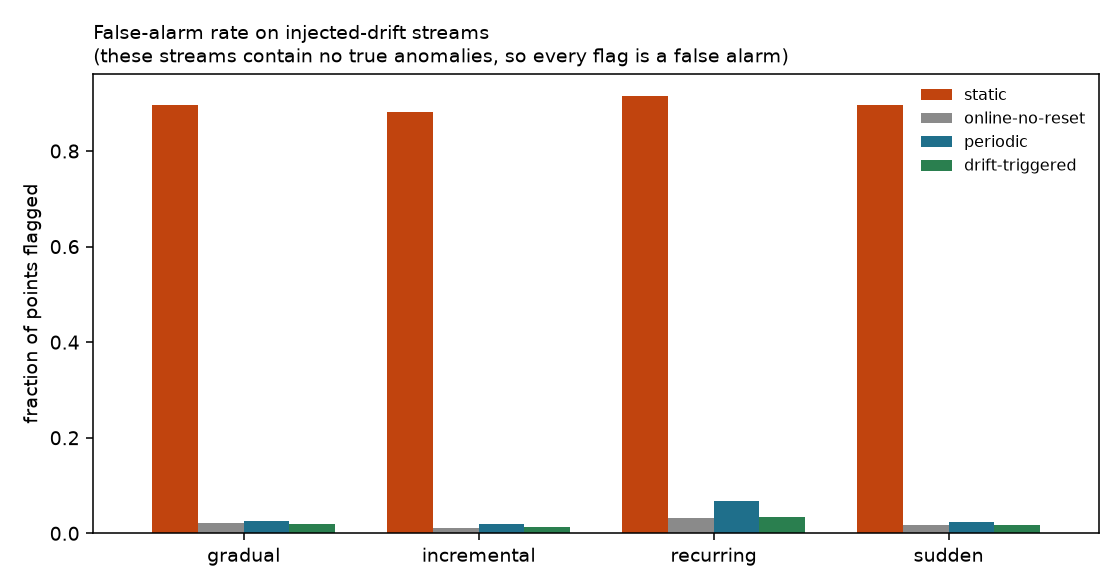
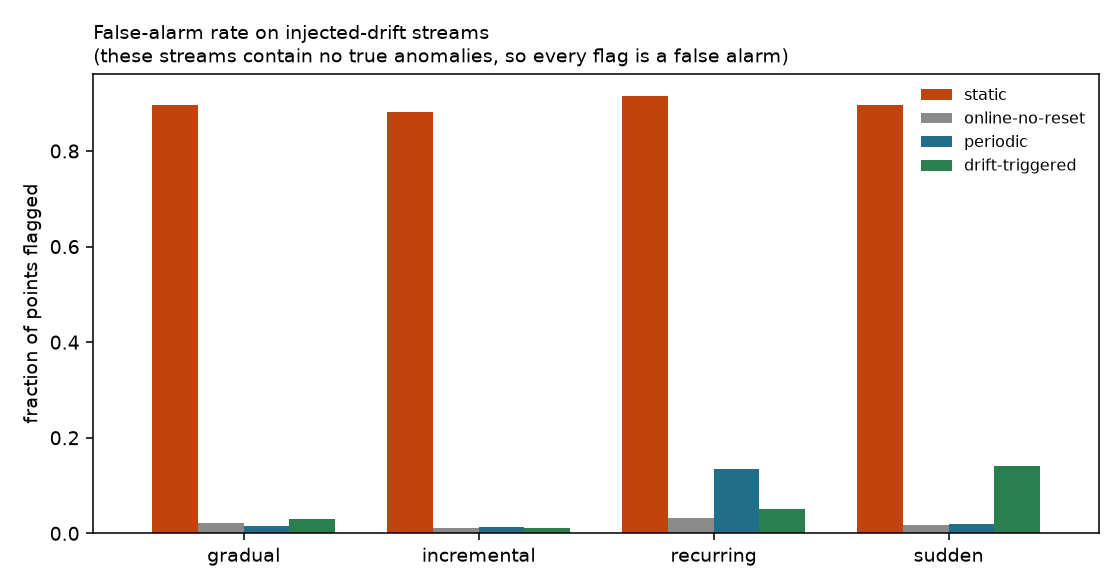
Fix two design flaws found by running the comparison
The retraining strategies were also calling learn_one on every row, which
made periodic and drift-triggered numerically identical to the
online-no-reset control on the labelled stream: continuous learning had
already absorbed the shift, so a rebuild changed nothing. Only the
control learns between rebuilds now.

The drift monitor was watching the model's own anomaly score, which fails
for the same reason. A learning model accommodates the shift, its score
distribution never moves, and the detector never fires; on the labelled
stream it produced zero detections across the whole run. The monitor now
watches mean absolute z-score of the inputs against the window the model
was last built on, refreshed on adaptation, so it answers whether the
world has moved since this model was built.

Drift-triggered now adapts 9 times on the labelled stream where it
previously adapted none, and is measurably distinct from the control.

diff --git a/src/experiment.py b/src/experiment.py
@@ -27,6 +27,28 @@ Rebuilding always means the same operation: `warm_up` on the most recent
 `warmup_size` rows, which regenerates the model, its feature limits, and its
 threshold together.
 
+## Two things the first run got wrong
+
+Both were found by running the code, and both changed the design.
+
+**The retraining strategies hold the model frozen between rebuilds.** In the
+first version every HST strategy also called `learn_one` on every row. That made
+`periodic` and `drift-triggered` numerically identical to `online-no-reset` on
+the labelled stream: continuous learning had already absorbed everything, so the
+rebuild had nothing left to do. A "retrain on a schedule" policy that is also
+learning continuously is not really a retraining policy. Now only
+`online-no-reset` learns between rebuilds, which is what makes it the control.
+
+**The drift monitor watches the input, not the model's anomaly score.** Watching
+the score was the original plan and it is self-defeating for exactly the same
+reason: a continuously-learning model quietly accommodates the shift, its score
+distribution never moves, and the detector never fires. On the labelled stream
+that produced zero detections. The monitor now watches a fixed-reference
+statistic of the inputs — mean absolute z-score across sensors, standardised
+against the window the model was last built on. That reference is refreshed on
+adaptation, so it always answers "has the world moved since this model was
+built", which is the question that should trigger a rebuild.
+
 ## Two stream families, measuring different things
 
 The injected-drift streams are built on SKAB's anomaly-free recording, so they
@@ -57,6 +79,34 @@ from src.evaluate import anomaly_metrics, drift_metrics, summarise
 from src.models import DEFAULT_THRESHOLD_QUANTILE, build_model
 
 
+class ReferenceStatistic:
+    """A one-number summary of how far the input has moved from a reference window.
+
+    Standardises each sensor against the mean and standard deviation of the
+    window the current model was built on, then averages the absolute z-scores.
+    Sitting at roughly 0.8 for data resembling the reference and climbing as the
+    input moves away, it gives the drift detector a signal that does not quietly
+    adapt on its own — which is the whole point of monitoring it instead of the
+    model's anomaly score.
+    """
+
+    def __init__(self) -> None:
+        self._mean: np.ndarray | None = None
+        self._scale: np.ndarray | None = None
+
+    def refit(self, frame: pd.DataFrame) -> None:
+        self._mean = frame.to_numpy().mean(axis=0)
+        scale = frame.to_numpy().std(axis=0)
+        # A sensor that never moved in the reference window would divide by zero;
+        # give it unit scale so it contributes its raw deviation instead.
+        self._scale = np.where(scale > 0, scale, 1.0)
+
+    def value(self, row: np.ndarray) -> float:
+        if self._mean is None or self._scale is None:
+            raise RuntimeError("refit must be called before value")
+        return float(np.mean(np.abs((row - self._mean) / self._scale)))
+
+
 @dataclass(frozen=True)
 class Strategy:
     """One adaptation policy."""
@@ -67,6 +117,10 @@ class Strategy:
     retrain_every: int = 1000
     detector_kind: str = "adwin"
     detector_kwargs: dict = field(default_factory=dict)
+    # Whether the model keeps learning between rebuilds. Only the online control
+    # does; a retraining policy that also learns continuously is not really a
+    # retraining policy, and measurably collapses into the control.
+    learn_online: bool = False
 
     def __post_init__(self) -> None:
         if self.adapt not in ("never", "periodic", "drift"):
@@ -76,7 +130,7 @@ class Strategy:
 def default_strategies(detector_kind: str = "adwin") -> list[Strategy]:
     return [
         Strategy("static", model_kind="iforest", adapt="never"),
-        Strategy("online-no-reset", model_kind="hst", adapt="never"),
+        Strategy("online-no-reset", model_kind="hst", adapt="never", learn_online=True),
         Strategy("periodic", model_kind="hst", adapt="periodic", retrain_every=1000),
         Strategy("drift-triggered", model_kind="hst", adapt="drift", detector_kind=detector_kind),
     ]
@@ -150,8 +204,11 @@ def run_strategy(
             **strategy.detector_kwargs,
         )
 
+    reference = ReferenceStatistic()
+
     started = time.perf_counter()
     model.warm_up(frame.iloc[:warmup])
+    reference.refit(frame.iloc[:warmup])
 
     scores = np.full(n, np.nan)
     flags = np.zeros(n, dtype=int)
@@ -179,6 +236,7 @@ def run_strategy(
         )
 
     records = frame.to_dict(orient="records")
+    values = frame.to_numpy()
     recent: deque[dict] = deque(records[:warmup], maxlen=warmup)
 
     for i in range(warmup, n):
@@ -189,7 +247,8 @@ def run_strategy(
         thresholds[i] = model.threshold
         flags[i] = int(score > model.threshold)
 
-        model.learn_one(x)
+        if strategy.learn_online:
+            model.learn_one(x)
         recent.append(x)
 
         should_adapt = False
@@ -197,12 +256,16 @@ def run_strategy(
             should_adapt = (i - warmup) > 0 and (i - warmup) % strategy.retrain_every == 0
         elif strategy.adapt == "drift":
             assert monitor is not None
-            if monitor.update(score):
+            # Watch the input's distance from the reference window, not the
+            # model's own score: a learning model hides the shift from itself.
+            if monitor.update(reference.value(values[i])):
                 detections.append(i)
                 should_adapt = True
 
         if should_adapt:
-            model.warm_up(pd.DataFrame(list(recent), columns=frame.columns))
+            window = pd.DataFrame(list(recent), columns=frame.columns)
+            model.warm_up(window)
+            reference.refit(window)
             adaptations.append(i)
 
     return StrategyRun(
